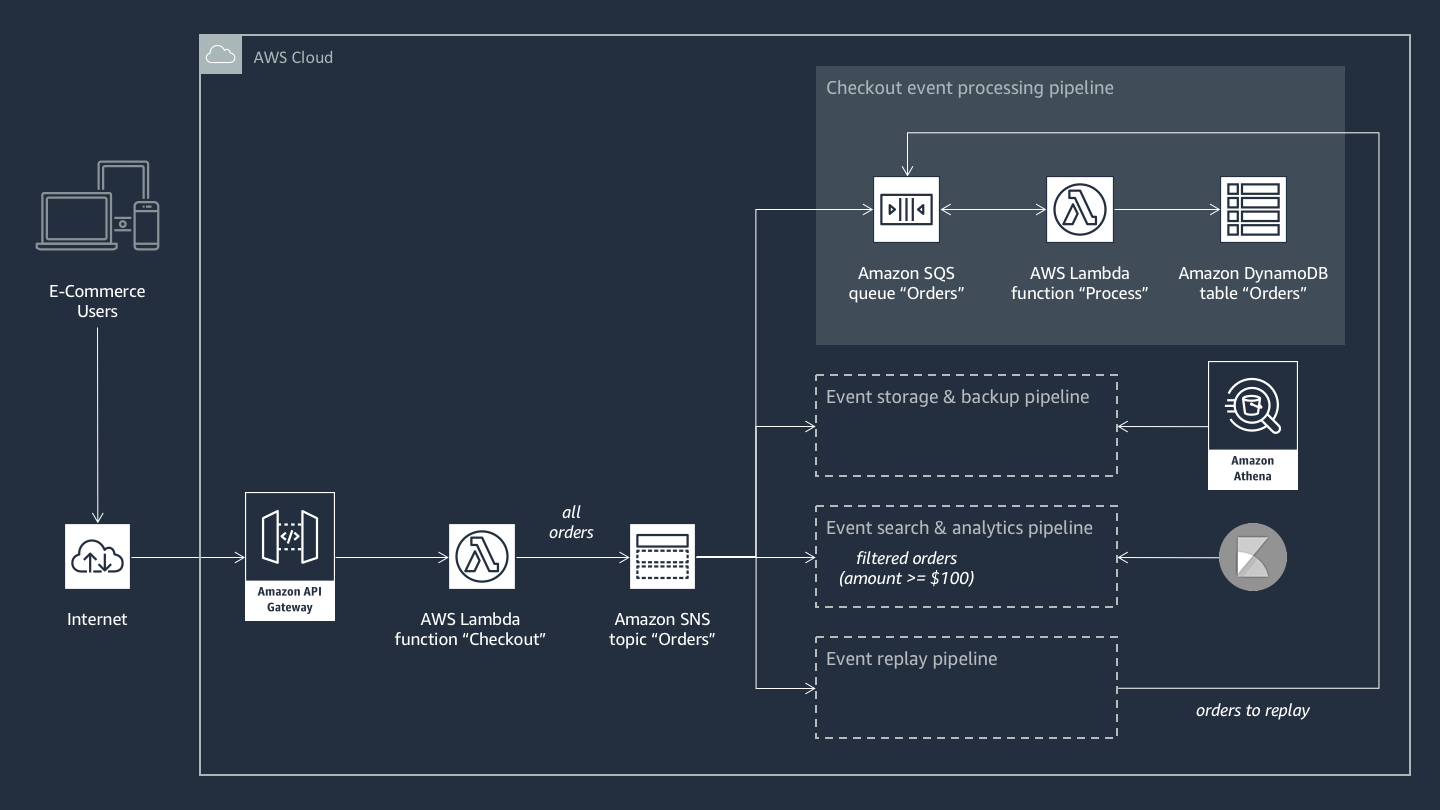
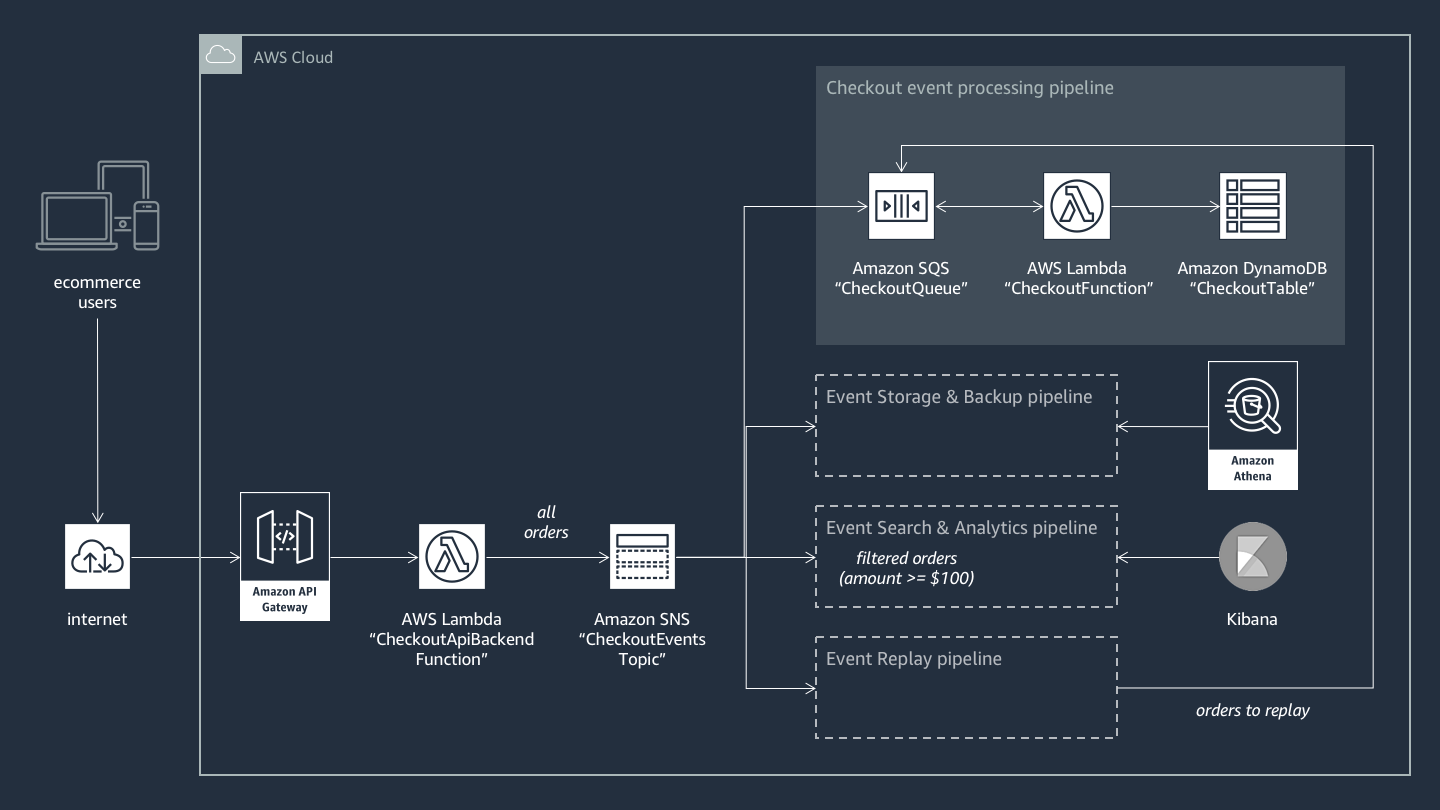
Architecture diagram corrections

diff --git a/examples/ecommerce-app/checkout-api/README.md b/examples/ecommerce-app/checkout-api/README.md
@@ -8,8 +8,8 @@ This serverless application is an example of using the AWS Event Fork Pipelines 
 
 ![AWS Event Fork Pipelines E-Commerce Architecture](https://github.com/aws-samples/aws-serverless-event-fork-pipelines/raw/master/examples/ecommerce-app/checkout-api/images/ecommerce-architecture.png)
 
-1. The e-commerce application takes orders from buyers through a RESTful API, which is hosted by Amazon API Gateway and is backed by an AWS Lambda function named “Checkout”.
-1. This function publishes all orders received to an Amazon SNS topic named “CheckoutEvents”, which in turn fans out the orders to four different pipelines.
+1. The e-commerce application takes orders from buyers through a RESTful API, which is hosted by Amazon API Gateway and is backed by an AWS Lambda function named “CheckoutApiBackendFunction".
+1. This function publishes all orders received to an Amazon SNS topic named “CheckoutEventsTopic”, which in turn fans out the orders to four different pipelines.
 1. The first pipeline is the regular checkout processing pipeline designed and implemented by the e-commerce application owner, which saves all orders to an Amazon DynamoDB table.
 1. The second pipeline is the fork-event-storage-backup-pipeline app, which is configured to remove sensitive data from the events and save them to a backup S3 bucket, compressed and encrypted at rest.
 1. The third pipeline is the fork-event-search-analytics-pipeline app, which is configured to save events for orders where the amount was greater than or equal to 100 USD to an Amazon Elasticsearch Service Domain.

diff --git a/examples/ecommerce-app/checkout-pipeline/README.md b/examples/ecommerce-app/checkout-pipeline/README.md
@@ -9,7 +9,7 @@ This checkout pipeline is meant to be nested in the example e-commerce applicati
 ![AWS Event Fork Pipelines Checkout Pipeline Architecture](https://github.com/aws-samples/aws-serverless-event-fork-pipelines/raw/master/examples/ecommerce-app/checkout-pipeline/images/checkout-pipeline-architecture.png)
 
 1. An Amazon SQS queue is subscribed to the given SNS Topic ARN of checkout events.
-1. An AWS Lambda function reads events from the SQS queue and writes order data to an Amazon DynamoDB table called "Orders".
+1. An AWS Lambda function reads events from the SQS queue and writes order data to an Amazon DynamoDB table called "CheckoutTable".
     1. The Lambda function provides an environment variable that allows a data corruption bug to be turned on and off in order to demo usage of the fork-event-replay-pipeline app.
 
 ## Installation Instructions
